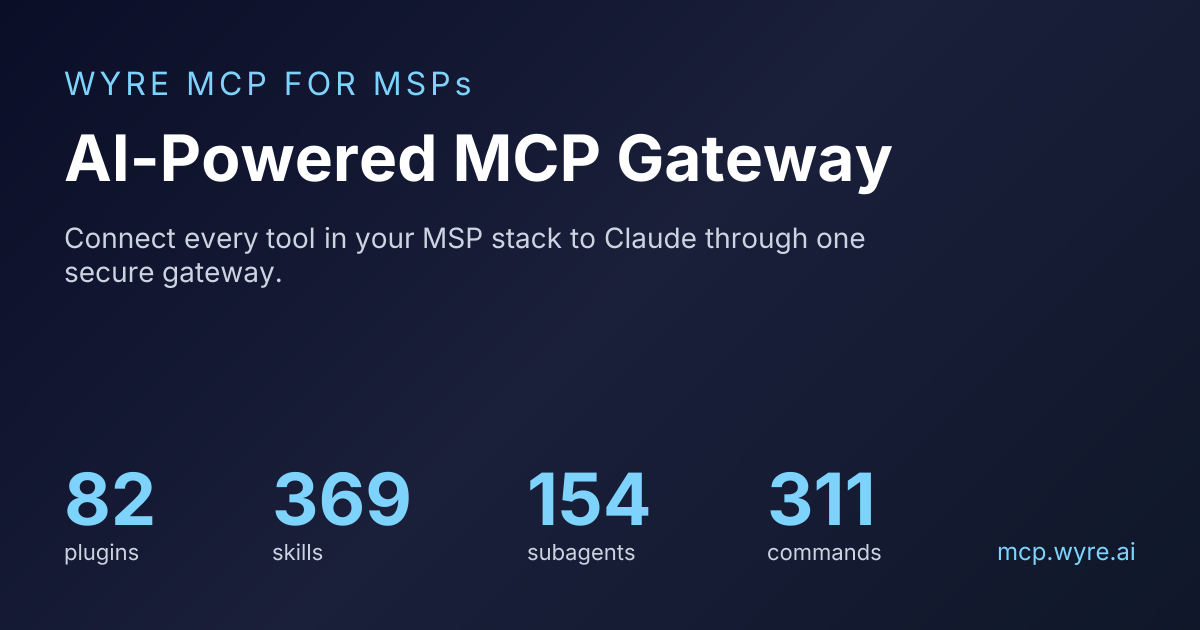
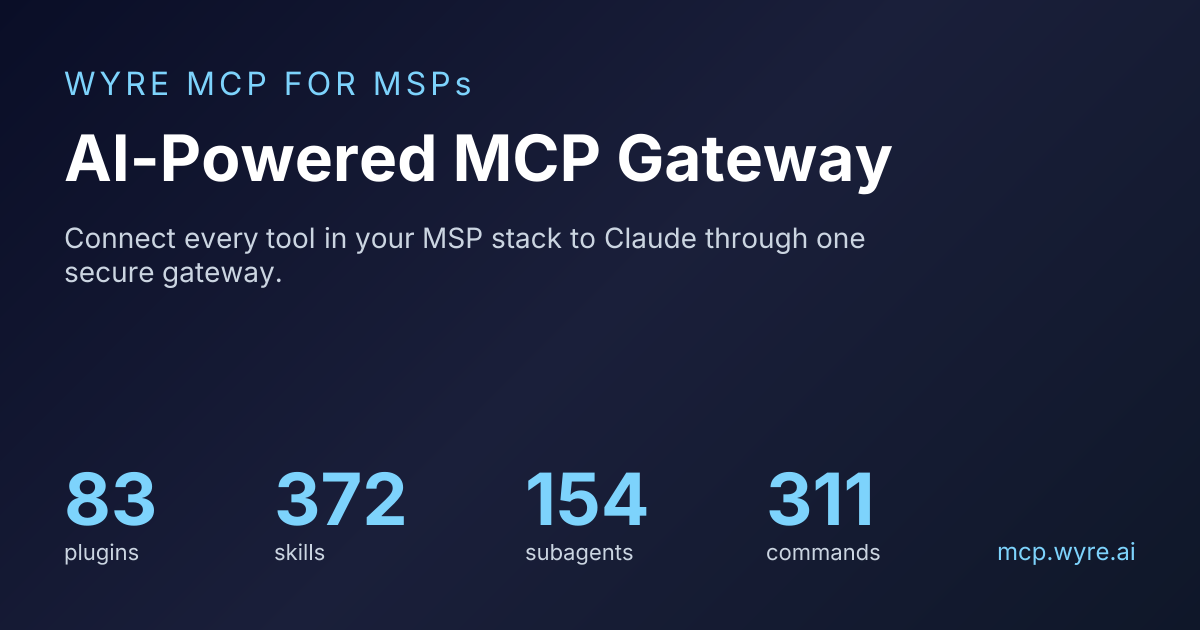
feat(advanced-workflows): register plugin in marketplace
Add plugin.json and README.md for the advanced-workflows plugin, add
its marketplace.json entry (new "automation" category), and regenerate
the docs site's generated data. Also fixes docs/scripts/generate-plugins.ts's
path derivation (derivePath/deriveVendor/pluginDir), which assumed every
plugin nests under msp-claude-plugins/ — advanced-workflows is the first
plugin family to live at the repo root instead. Verified byte-identical
output for all 82 pre-existing plugin entries.

diff --git a/msp-claude-plugins/docs/scripts/generate-plugins.ts b/msp-claude-plugins/docs/scripts/generate-plugins.ts
@@ -19,7 +19,7 @@ const OUTPUT_PATH_SHARED = path.join(DOCS_DIR, 'src', 'data', 'sharedSkills.ts')
 const VALID_CATEGORIES = new Set([
   'psa', 'rmm', 'documentation', 'security', 'sales', 'accounting',
   'productivity', 'email-security', 'incident-management', 'monitoring',
-  'network', 'crm', 'marketplace', 'marketing', 'infrastructure',
+  'network', 'crm', 'marketplace', 'marketing', 'infrastructure', 'automation',
 ]);
 
 function normalizeCategory(raw: string): string {
@@ -32,8 +32,12 @@ function normalizeCategory(raw: string): string {
 // ── Vendor derivation ──────────────────────────────────────────────────
 /** Derive a display-friendly vendor name from the source path. */
 function deriveVendor(sourcePath: string): string {
-  // sourcePath looks like "./msp-claude-plugins/kaseya/autotask"
-  const parts = sourcePath.replace('./msp-claude-plugins/', '').split('/');
+  // sourcePath looks like "./msp-claude-plugins/kaseya/autotask" for a
+  // nested vendor plugin, or "./advanced-workflows/advanced-workflows" for
+  // a cross-vendor plugin family living directly at the repo root — strip
+  // the msp-claude-plugins/ segment only when present, but always strip the
+  // leading "./" so the repo-root case doesn't leave "." as the top level.
+  const parts = sourcePath.replace(/^\.\/(msp-claude-plugins\/)?/, '').split('/');
   const topLevel = parts[0];
 
   const vendorMap: Record<string, string> = {
@@ -293,7 +297,8 @@ function scanApiInfo(_pluginDir: string): ApiInfo {
 // ── Derive path from source ────────────────────────────────────────────
 function derivePath(source: string): string {
   // "./msp-claude-plugins/kaseya/autotask" → "kaseya/autotask"
-  return source.replace('./msp-claude-plugins/', '');
+  // "./advanced-workflows/advanced-workflows" → "advanced-workflows/advanced-workflows"
+  return source.replace(/^\.\/(msp-claude-plugins\/)?/, '');
 }
 
 // ── Features from skills ───────────────────────────────────────────────
@@ -427,7 +432,12 @@ function main(): void {
     }
 
     const pluginRelPath = derivePath(entry.source);
-    const pluginDir = path.join(REPO_ROOT, 'msp-claude-plugins', pluginRelPath);
+    // entry.source is already a path relative to REPO_ROOT (e.g.
+    // "./msp-claude-plugins/kaseya/autotask" or, for a repo-root plugin
+    // family like advanced-workflows, "./advanced-workflows/advanced-workflows") —
+    // join it directly rather than assuming every plugin nests under
+    // msp-claude-plugins/.
+    const pluginDir = path.join(REPO_ROOT, entry.source);
 
     // Read plugin.json if it exists
     const pluginJsonPath = path.join(pluginDir, '.claude-plugin', 'plugin.json');

diff --git a/msp-claude-plugins/docs/src/data/plugins.ts b/msp-claude-plugins/docs/src/data/plugins.ts
@@ -5,7 +5,7 @@ export interface Plugin {
   name: string;
   vendor: string;
   description: string;
-  category: 'accounting' | 'bcdr' | 'crm' | 'documentation' | 'email-security' | 'incident-management' | 'infrastructure' | 'legal' | 'marketplace' | 'monitoring' | 'network' | 'productivity' | 'psa' | 'rmm' | 'sales' | 'security' | 'workflow-pack';
+  category: 'accounting' | 'automation' | 'bcdr' | 'crm' | 'documentation' | 'email-security' | 'incident-management' | 'infrastructure' | 'legal' | 'marketplace' | 'monitoring' | 'network' | 'productivity' | 'psa' | 'rmm' | 'sales' | 'security' | 'workflow-pack';
   maturity: 'production' | 'beta' | 'alpha';
   features: string[];
   skills: Skill[];
@@ -111,6 +111,34 @@ export const plugins: Plugin[] = [
       docsUrl: ''
     },
     path: 'abnormal/abnormal-security',
+    compatibility: { claudeCode: true, claudeDesktop: true, validated: false }
+  },
+  {
+    id: 'advanced-workflows',
+    name: 'Advanced Workflows',
+    vendor: 'Advanced-workflows',
+    description: 'Vendor-generic MSP automation workflows that adapt to the customer\'s connected stack.',
+    category: 'automation',
+    maturity: 'alpha',
+    features: [
+      'Chat Delivery Adapters',
+      'Psa Tool Map',
+      'Ticket Triage Agent'
+    ],
+    skills: [
+      { name: 'chat-delivery-adapters', description: 'The delivery-adapter contract every advanced-workflow skill uses to post its finished report somewhere a human will see it — Slack, an IT Glue document, or (blocked) Microsoft Teams.' },
+      { name: 'psa-tool-map', description: 'Maps abstract PSA/ticketing operations (list new tickets, get ticket detail, update priority + status, list statuses, list priorities) to concrete Conduit tool names for Autotask, HaloPSA, and ConnectWise PSA.' },
+      { name: 'ticket-triage-agent', description: 'Build (or run once) a ticket-triage agent that classifies new PSA tickets by priority, advances them to In Progress, and posts a summary to the connected chat tool.' }
+    ],
+    agents: [],
+    commands: [],
+    apiInfo: {
+      baseUrl: '',
+      auth: '',
+      rateLimit: '',
+      docsUrl: ''
+    },
+    path: 'advanced-workflows/advanced-workflows',
     compatibility: { claudeCode: true, claudeDesktop: true, validated: false }
   },
   {

diff --git a/advanced-workflows/advanced-workflows/README.md b/advanced-workflows/advanced-workflows/README.md
@@ -1,0 +1,12 @@
+# Advanced Workflows
+
+Vendor-generic MSP automation skills. Each workflow detects which PSA/RMM/
+chat-delivery vendor a customer has connected and adapts — see the
+`*-tool-map` skills for exactly which vendors are curated per role.
+
+**Access note:** this plugin has no single vendor to "follow" for access
+gating (that's the point — it's vendor-generic), so on Conduit's catalog
+it defaults open to every member of every connected org, the same
+fallback every other vendor-less catalog pack uses. Org admins who want
+tighter control can add an explicit grant/deny the same way they would
+for any catalog pack.
